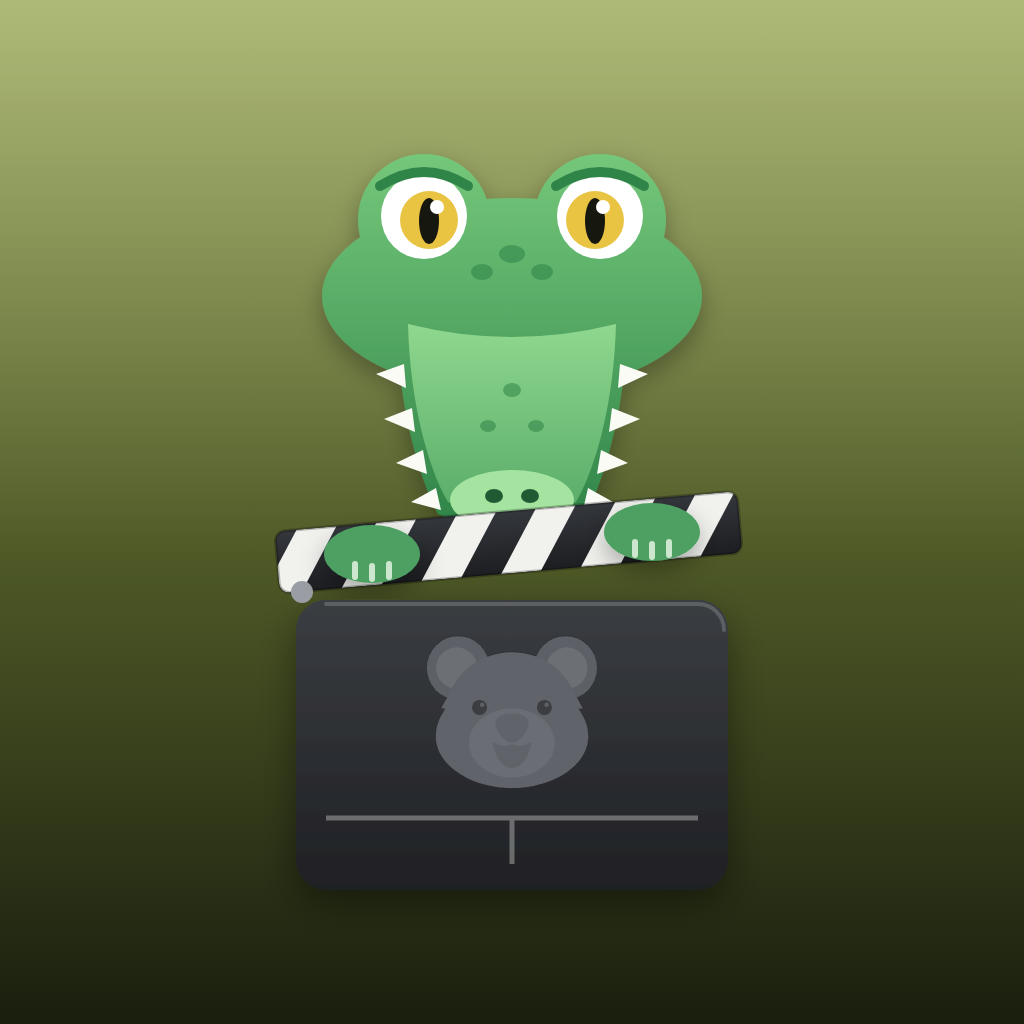
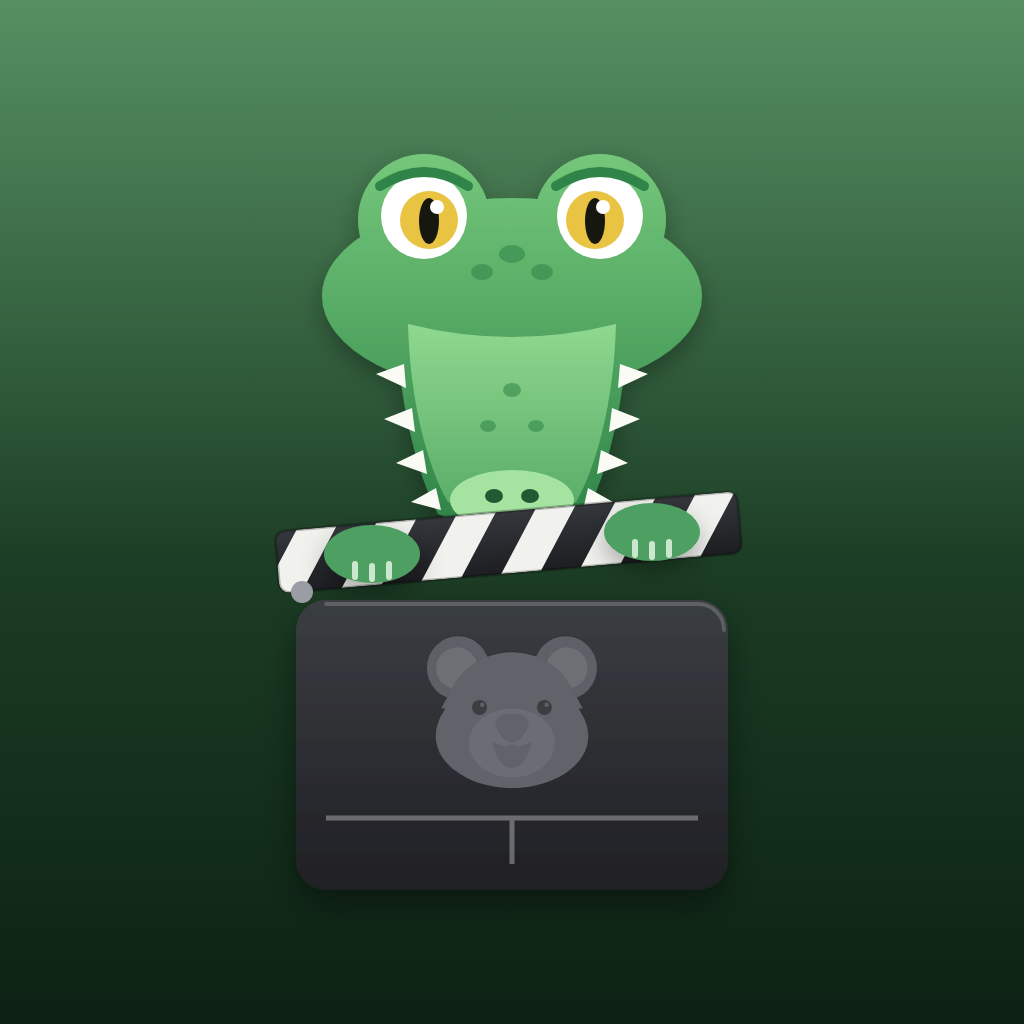
Croc's colour: the croc's green instead of olive

diff --git a/Sources/Croc/Theme.swift b/Sources/Croc/Theme.swift
@@ -2,7 +2,7 @@ import SwiftUI
 import AppKit
 import CoreText
 
-// The look of croc.kimiyu.ch: the billabong olive of the icon, Figtree headings, white cards with a thin ring.
+// The look of croc.kimiyu.ch: the croc green of the icon, Figtree headings, white cards with a thin ring.
 // Dark mode follows the website's dark sections (billabong-950 with white/5 cards).
 
 extension Color {
@@ -23,22 +23,22 @@ extension Color {
 }
 
 enum Billabong {
-    static let c50 = Color(hex: 0xf6f7ee)
-    static let c100 = Color(hex: 0xeaedd6)
-    static let c200 = Color(hex: 0xd5dcae)
-    static let c300 = Color(hex: 0xb8c47d)
-    static let c400 = Color(hex: 0x9aa955)
-    static let c500 = Color(hex: 0x7d8c3b)
-    static let c600 = Color(hex: 0x62702d)
-    static let c700 = Color(hex: 0x4d5826)
-    static let c800 = Color(hex: 0x3f4723)
-    static let c900 = Color(hex: 0x2f351b)
-    static let c950 = Color(hex: 0x1a1e0e)
+    static let c50 = Color(hex: 0xeff8f0)
+    static let c100 = Color(hex: 0xd9eedc)
+    static let c200 = Color(hex: 0xb5ddbb)
+    static let c300 = Color(hex: 0x86c590)
+    static let c400 = Color(hex: 0x5aa968)
+    static let c500 = Color(hex: 0x3a8d4b)
+    static let c600 = Color(hex: 0x2c733b)
+    static let c700 = Color(hex: 0x255c31)
+    static let c800 = Color(hex: 0x214a2b)
+    static let c900 = Color(hex: 0x1c3d25)
+    static let c950 = Color(hex: 0x0c2113)
 }
 
 enum Theme {
-    static let pageTop = Color.adaptive(light: Billabong.c50, dark: Color(hex: 0x181b0d))
-    static let page = Color.adaptive(light: .white, dark: Color(hex: 0x13160a))
+    static let pageTop = Color.adaptive(light: Billabong.c50, dark: Color(hex: 0x0f1d13))
+    static let page = Color.adaptive(light: .white, dark: Color(hex: 0x0b160e))
     static let card = Color.adaptive(light: .white, dark: .white.opacity(0.05))
     static let ring = Color.adaptive(light: Billabong.c950.opacity(0.1), dark: .white.opacity(0.1))
     static let divider = Color.adaptive(light: Color(hex: 0x0a0a0a, opacity: 0.05), dark: .white.opacity(0.08))

diff --git a/NEXT.md b/NEXT.md
@@ -16,7 +16,7 @@ Croc is the saltwater crocodile: heavy, and the chomp fits an app that cuts file
 | Local folders | `Webroot/croc.app`, `Webroot/croc.web`, plus a clone of `Webroot/kimiyu.web` (all 2026-10-19) |
 | Site | `https://croc.kimiyu.ch` on Hostpoint, `https://croc.web.test` in Herd |
 | Bundle ID | `ch.kimiyu.Croc` |
-| Colour | `billabong`: murky olive-green, set apart from Joey's `gum` (green) and Bilby's `chip` (teal) |
+| Colour | `billabong`: the croc's green (changed from olive on 2026-10-19 at Marcel's request) |
 
 ## Model it on Wombat
 
